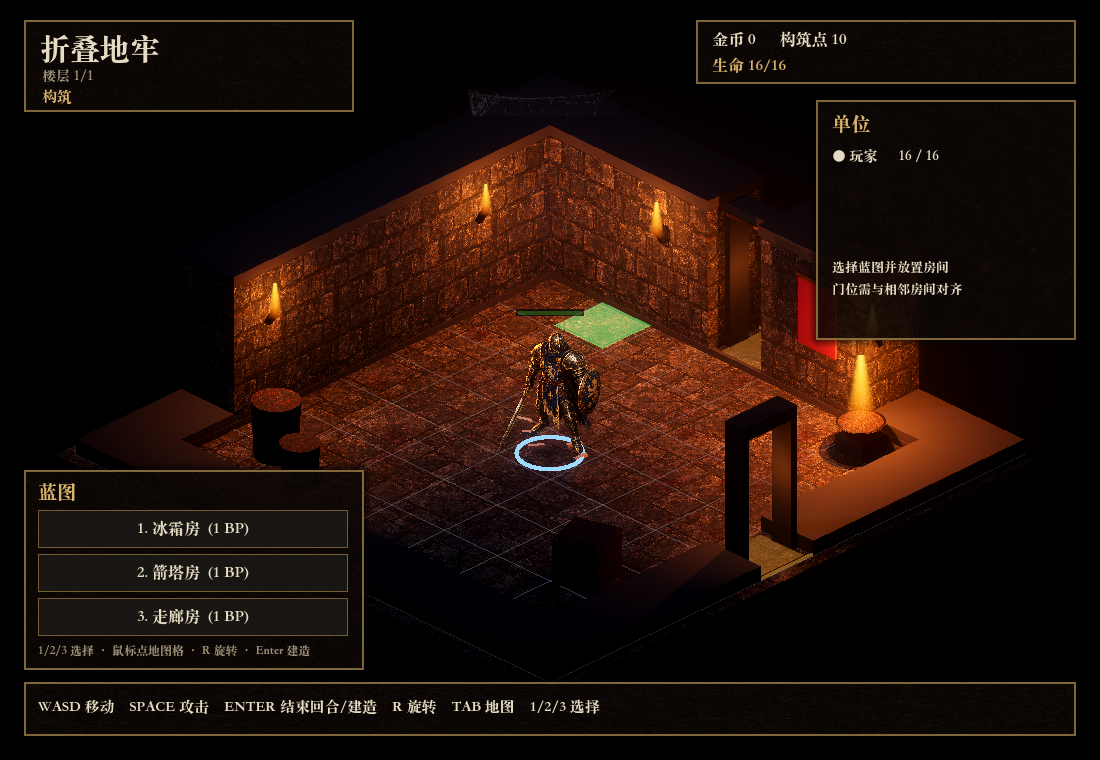
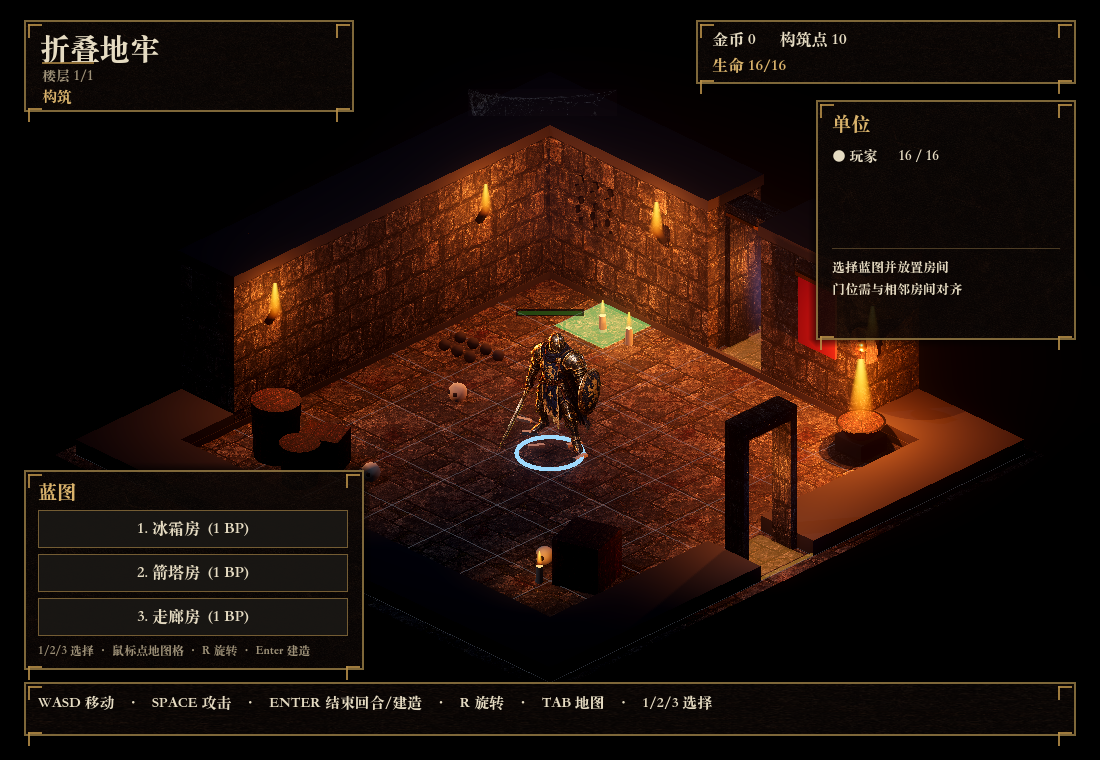
docs: M6-1 v2 打磨记录与截图更新

diff --git a/docs/art-concepts/targets/prompts.md b/docs/art-concepts/targets/prompts.md
@@ -81,3 +81,20 @@ Dark fantasy undead skeleton warrior, rusty ancient armor and tattered cloth, ho
 - `shadow-blob.png`：径向黑色阴影；
 - `blood.png`：随机椭圆 + 模糊血迹；
 - `tox-blob.png`：径向绿色毒雾。
+
+## M6-1 v2 · 攻击姿态帧（纯绿幕 + 抠像）
+
+### 玩家 · 重甲骑士（攻击）
+```text
+Dark fantasy armored knight in a dynamic mid-attack pose, swinging a longsword overhead, dark steel plate armor with aged gold trim and dark blue tattered tabard, round shield raised, seen from a high three-quarter top-down angle like an isometric RPG, dramatic warm torch rim light from the upper left, deep shadows, painterly detailed game character art, strong dark atmosphere, crisp silhouette, isolated on a pure solid chroma green background (#00FF00), full body visible, centered, no text, no watermark, no ground shadow.
+```
+
+### 怪物 · 炎魔（攻击）
+```text
+Dark fantasy horned demon monster in a dynamic mid-attack pose, lunging forward with claws raised, red-black scaly hide, glowing yellow eyes, seen from a high three-quarter top-down angle like an isometric RPG, painterly detailed game monster art, dramatic warm rim light, deep shadows, crisp silhouette, isolated on a pure solid chroma green background (#00FF00), full body visible, centered, no text, no watermark, no ground shadow.
+```
+
+### 怪物 · 骷髅战士（攻击）
+```text
+Dark fantasy undead skeleton warrior in a dynamic mid-attack pose, raising a chipped sword to strike, rusty ancient armor and tattered cloth, seen from a high three-quarter top-down angle like an isometric RPG, painterly detailed game monster art, cold blue rim light, deep shadows, crisp silhouette, isolated on a pure solid chroma green background (#00FF00), full body visible, centered, no text, no watermark, no ground shadow.
+```

diff --git a/docs/09-视觉与手感升级方案（M6）.md b/docs/09-视觉与手感升级方案（M6）.md
@@ -15,7 +15,14 @@
 - 测试：**33 cases / 92 tests / 1520 assertions 全绿**；新增资产清单与门位映射测试；
 - 截图：`docs/screenshots/m6-1-{build,explore,battle}.png`。
 
-**已知差距（v2 质量门待改进）：** ①立绘"贴上去"感仍存在（缺攻击/受击姿态与更融的光影）；②门洞外是纯黑 void，缺少远景/雾；③HUD 信息层级/图标未细化；④道具与地面细节仍偏少；⑤音效未接。这些留给 M6-1 v2 与 M6-2/3。
+**v2 打磨（2026-10-31，第一轮）：**
+- 单位：补齐玩家/炎魔/骷髅的**攻击姿态帧**（AI 出图 + 绿幕抠像），`play_attack()` 自动切换攻击帧并做前冲/缩放；
+- 门洞：门框换成受光石材质 + 门内冷雾/冷光，缓解纯黑 void；
+- 场景：新增锁链、墙盾、蜡烛、骷髅头、碎石、血迹、小木箱等细节；火盆移到右后角避免与敌人站位重叠；
+- HUD：面板金色角饰、标题下金线、通道彩色标签、底栏分隔；相机加入玩家跟随，避免角色被面板长期遮挡；
+- 截图：`docs/screenshots/m6-1-{build,explore,battle,attack}.png`。
+
+**剩余差距（v2 继续）：** ①立绘与光照仍可更融合（区域色偏、地面接触阴影更实、受击帧）；②门洞外远景/雾还需更自然；③房间道具仍偏少且缺少按房间主题的变体；④HUD 图标/卡牌视觉未细化；⑤音效未接。
 
 ---
 

diff --git a/.agents/plans/2026-10-31-M6-视觉与手感升级.md b/.agents/plans/2026-10-31-M6-视觉与手感升级.md
@@ -4,7 +4,7 @@
 
 - **目标：** 在已验收的 2.5D 达标房 v1 基础上，把运行层升级为"3D 场景 + AI 暗黑立绘单位"的完整游戏画面：房间/光照/材质/立绘单位/特效/皮革 HUD/标题/音频，最终产出可录 GIF、可展示的版本。
 - **成功标准：** `docs/09-视觉与手感升级方案（M6）.md` §9 的 V1–V8（画面辨识度、1 秒可读、≤150ms 反馈、双编码、测试全绿、60fps、资产可复现、README 更新）。
-- **当前结论：** D11 定稿为 **B 路线（3D 房间 + AI 2D 立绘单位）**；达标房 v1 已通过方向验收；**M6-1 第一版已落地**（主场景 3D 化、资入库、测试 92/1520 全绿），v2 质量门待评审。
+- **当前结论：** D11 定稿为 **B 路线（3D 房间 + AI 2D 立绘单位）**；达标房 v1 已通过方向验收；**M6-1 已落地两轮**（主场景 3D 化、资入库、v2 打磨：攻击姿态/门框雾光/场景细节/HUD 角饰），v2 质量门待评审。
 - **不动的部分：** `game/core/` 模拟层、既有 86 tests/1472 assertions、AI 技能目录、发布配置。
 
 ## 人话版

diff --git a/docs/07-美术方向与占位说明.md b/docs/07-美术方向与占位说明.md
@@ -2,7 +2,7 @@
 
 > 状态：**D11 已定稿（2026-10-31）：2.5D 暗黑地牢 = 3D 场景 + AI 2D 立绘单位；主视觉/封面 = D 折叠地牢。**
 > 达标房 v1 已通过方向验收；方案与验收：[`docs/09`](09-视觉与手感升级方案（M6）.md) · 任务拆解：[`.agents/plans/2026-10-31-M6-视觉与手感升级.md`](../.agents/plans/2026-10-31-M6-视觉与手感升级.md) · 基准图/素材：[`docs/art-concepts/targets/2.5d/`](art-concepts/targets/2.5d/)
-> **M6-1 第一版已落地**：主场景已切到 2.5D 运行层（`run_mode_3d.tscn`），截图见 `docs/screenshots/`；v2 质量门与剩余界面/音频待 M6-2…M6-6。
+> **M6-1 第一版已落地**：主场景已切到 2.5D 运行层（`run_mode_3d.tscn`），截图见 `docs/screenshots/`；v2 第一轮打磨已完成（攻击姿态/门框雾光/场景细节/HUD 角饰），质量门待评审；剩余界面/音频待 M6-2…M6-6。
 
 ## 1. 当前占位方案
 

diff --git a/README.md b/README.md
@@ -44,7 +44,7 @@
   <img src="./assets/readme/prototype.png" width="100%" alt="M6-1 2.5D 运行层实机截图：3D 石材地牢房间、火把与火盆、AI 立绘骑士与怪物、皮革悬浮 HUD">
 </p>
 <p align="center">
-  <sub>M6-1 2.5D 运行层实机（第一版，质量门打磨中）· 操作见 <a href="docs/05-GUI运行层说明.md">docs/05</a></sub>
+  <sub>M6-1 2.5D 运行层实机（v2 第一轮打磨，质量门评审中）· 操作见 <a href="docs/05-GUI运行层说明.md">docs/05</a></sub>
 </p>
 
 ## 房间之间怎么联动
